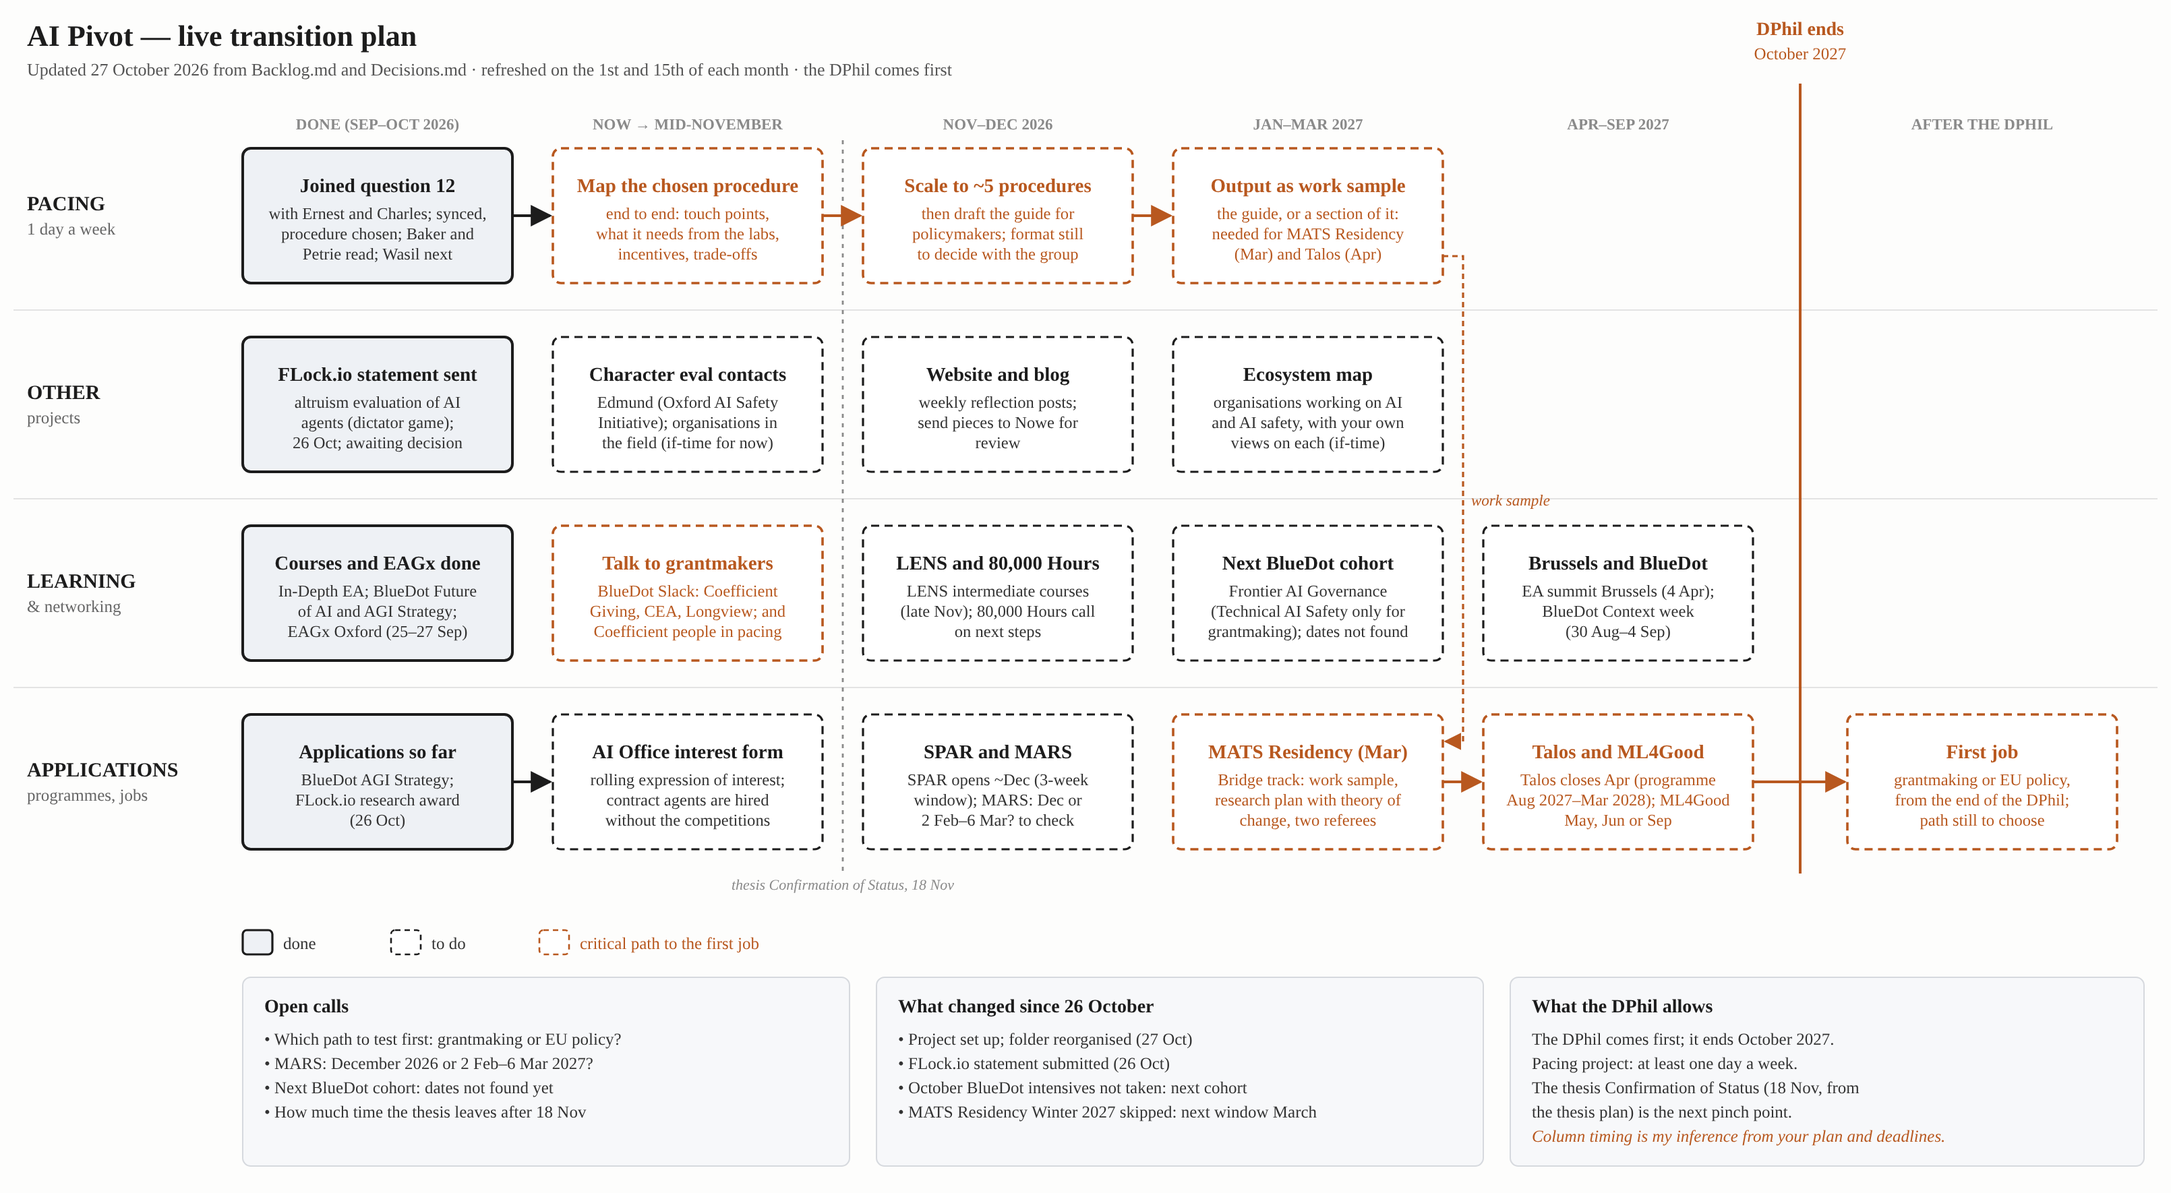
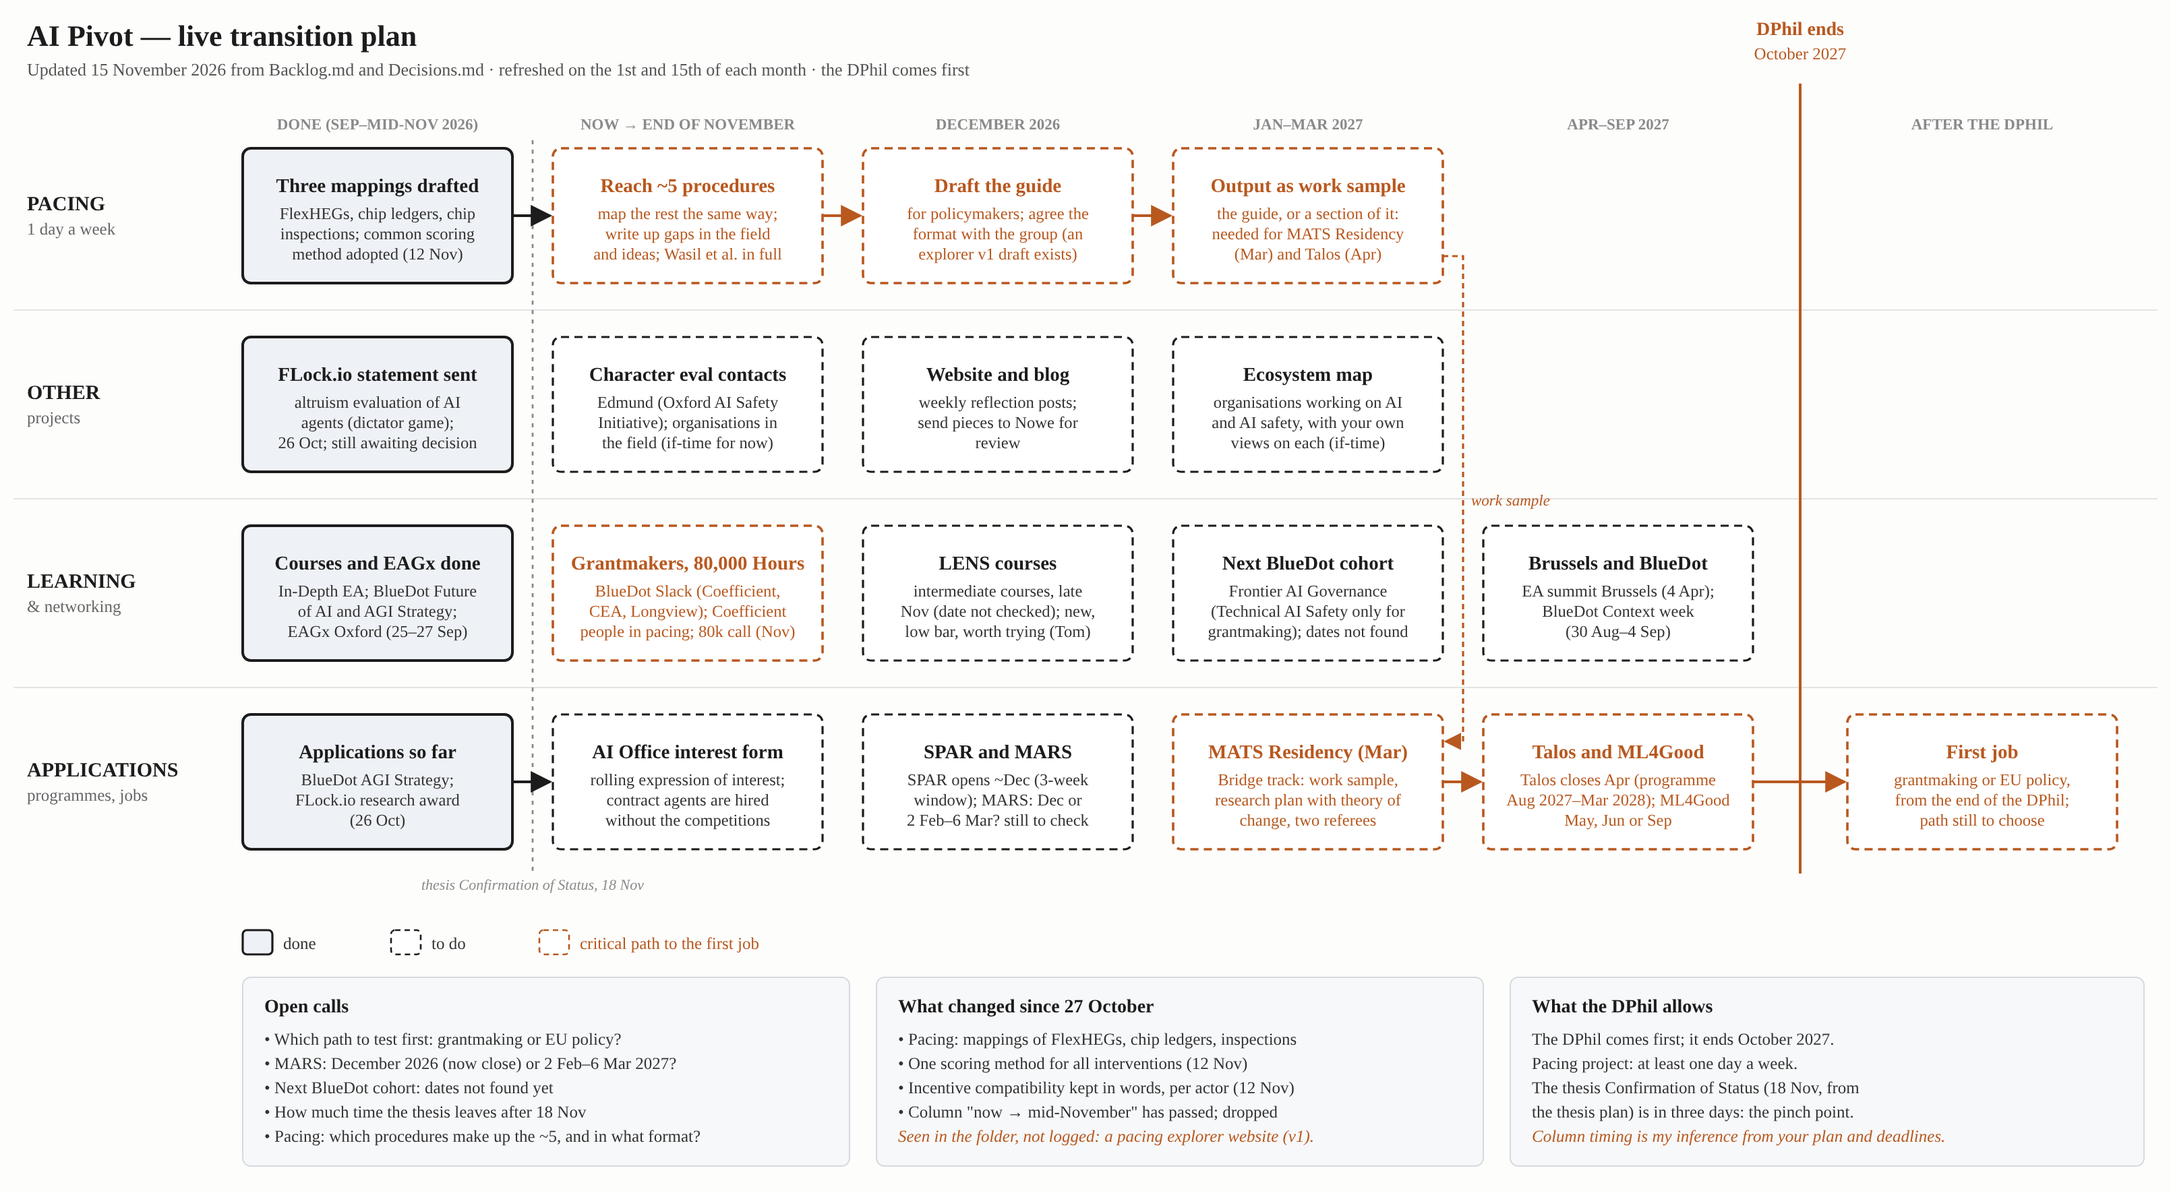
Refresh live transition plan (15 Nov 2026)
Fortnightly update: three mappings and scoring method done; next, map the remaining procedures.

Claude-Session: https://claude.ai/code/session_01QPHSetawBcCA21FfCXHxVm

diff --git a/0. Inputs & context/Live transition plan (source).html b/0. Inputs & context/Live transition plan (source).html
@@ -6,7 +6,7 @@ To update: edit the <text> nodes (and, if needed, the <rect>/<line>/<path> coord
 then render to PNG with headless Chromium at viewport width 1610 px, device scale factor 2, full page, and overwrite the PNG.
 Style shared with the DPhil plans: solid grey = done, dashed = to do, amber fill = in progress, orange = critical path;
 orange vertical line = end of the DPhil; dotted grey line = the thesis's Confirmation of Status.
-Last drawn: 27 October 2026.
+Last drawn: 15 November 2026.
 -->
 <html><head><meta charset="utf-8"><title>AI Pivot transition plan</title><style>body{margin:0;background:#fdfdfc}</style></head><body><svg xmlns="http://www.w3.org/2000/svg" width="1610" height="880" viewBox="0 0 1610 880" font-family="'Liberation Serif','Tinos','FreeSerif',Georgia,serif">
 <defs>
@@ -15,10 +15,10 @@ Last drawn: 27 October 2026.
 </defs>
 <rect width="100%" height="100%" fill="#fdfdfc"/>
 <text x="20" y="34" font-size="22" font-weight="bold" fill="#1c1c1c" text-anchor="start" font-style="normal">AI Pivot — live transition plan</text>
-<text x="20" y="56" font-size="13" font-weight="normal" fill="#555" text-anchor="start" font-style="normal">Updated 27 October 2026 from Backlog.md and Decisions.md · refreshed on the 1st and 15th of each month · the DPhil comes first</text>
-<text x="280.0" y="96" font-size="11.5" font-weight="bold" fill="#8a8a8a" text-anchor="middle" font-style="normal">DONE (SEP–OCT 2026)</text>
-<text x="510.0" y="96" font-size="11.5" font-weight="bold" fill="#8a8a8a" text-anchor="middle" font-style="normal">NOW → MID-NOVEMBER</text>
-<text x="740.0" y="96" font-size="11.5" font-weight="bold" fill="#8a8a8a" text-anchor="middle" font-style="normal">NOV–DEC 2026</text>
+<text x="20" y="56" font-size="13" font-weight="normal" fill="#555" text-anchor="start" font-style="normal">Updated 15 November 2026 from Backlog.md and Decisions.md · refreshed on the 1st and 15th of each month · the DPhil comes first</text>
+<text x="280.0" y="96" font-size="11.5" font-weight="bold" fill="#8a8a8a" text-anchor="middle" font-style="normal">DONE (SEP–MID-NOV 2026)</text>
+<text x="510.0" y="96" font-size="11.5" font-weight="bold" fill="#8a8a8a" text-anchor="middle" font-style="normal">NOW → END OF NOVEMBER</text>
+<text x="740.0" y="96" font-size="11.5" font-weight="bold" fill="#8a8a8a" text-anchor="middle" font-style="normal">DECEMBER 2026</text>
 <text x="970.0" y="96" font-size="11.5" font-weight="bold" fill="#8a8a8a" text-anchor="middle" font-style="normal">JAN–MAR 2027</text>
 <text x="1200.0" y="96" font-size="11.5" font-weight="bold" fill="#8a8a8a" text-anchor="middle" font-style="normal">APR–SEP 2027</text>
 <text x="1470.0" y="96" font-size="11.5" font-weight="bold" fill="#8a8a8a" text-anchor="middle" font-style="normal">AFTER THE DPHIL</text>
@@ -36,23 +36,23 @@ Last drawn: 27 October 2026.
 <line x1="1335" x2="1335" y1="62" y2="648" stroke="#b8581f" stroke-width="2"/>
 <text x="1335" y="26" font-size="14" font-weight="bold" fill="#b8581f" text-anchor="middle" font-style="normal">DPhil ends</text>
 <text x="1335" y="44" font-size="12.5" font-weight="normal" fill="#b8581f" text-anchor="middle" font-style="normal">October 2027</text>
-<line x1="625" x2="625" y1="104" y2="648" stroke="#8a8a8a" stroke-width="1.4" stroke-dasharray="3 4"/>
-<text x="625" y="660" font-size="11" font-weight="normal" fill="#8a8a8a" text-anchor="middle" font-style="italic">thesis Confirmation of Status, 18 Nov</text>
+<line x1="395" x2="395" y1="104" y2="648" stroke="#8a8a8a" stroke-width="1.4" stroke-dasharray="3 4"/>
+<text x="395" y="660" font-size="11" font-weight="normal" fill="#8a8a8a" text-anchor="middle" font-style="italic">thesis Confirmation of Status, 18 Nov</text>
 <rect x="180" y="110" width="200" height="100" rx="6" fill="#eef1f5" stroke="#1c1c1c" stroke-width="2"/>
-<text x="280.0" y="142.5" font-size="14.5" font-weight="bold" fill="#1c1c1c" text-anchor="middle" font-style="normal">Joined question 12</text>
-<text x="280.0" y="162.5" font-size="12.3" font-weight="normal" fill="#333" text-anchor="middle" font-style="normal">with Ernest and Charles; synced,</text>
-<text x="280.0" y="177.5" font-size="12.3" font-weight="normal" fill="#333" text-anchor="middle" font-style="normal">procedure chosen; Baker and</text>
-<text x="280.0" y="192.5" font-size="12.3" font-weight="normal" fill="#333" text-anchor="middle" font-style="normal">Petrie read; Wasil next</text>
+<text x="280.0" y="142.5" font-size="14.5" font-weight="bold" fill="#1c1c1c" text-anchor="middle" font-style="normal">Three mappings drafted</text>
+<text x="280.0" y="162.5" font-size="12.3" font-weight="normal" fill="#333" text-anchor="middle" font-style="normal">FlexHEGs, chip ledgers, chip</text>
+<text x="280.0" y="177.5" font-size="12.3" font-weight="normal" fill="#333" text-anchor="middle" font-style="normal">inspections; common scoring</text>
+<text x="280.0" y="192.5" font-size="12.3" font-weight="normal" fill="#333" text-anchor="middle" font-style="normal">method adopted (12 Nov)</text>
 <rect x="410" y="110" width="200" height="100" rx="6" fill="#ffffff" stroke="#b8581f" stroke-width="1.8" stroke-dasharray="6 4"/>
-<text x="510.0" y="142.5" font-size="14.5" font-weight="bold" fill="#b8581f" text-anchor="middle" font-style="normal">Map the chosen procedure</text>
-<text x="510.0" y="162.5" font-size="12.3" font-weight="normal" fill="#b8581f" text-anchor="middle" font-style="normal">end to end: touch points,</text>
-<text x="510.0" y="177.5" font-size="12.3" font-weight="normal" fill="#b8581f" text-anchor="middle" font-style="normal">what it needs from the labs,</text>
-<text x="510.0" y="192.5" font-size="12.3" font-weight="normal" fill="#b8581f" text-anchor="middle" font-style="normal">incentives, trade-offs</text>
+<text x="510.0" y="142.5" font-size="14.5" font-weight="bold" fill="#b8581f" text-anchor="middle" font-style="normal">Reach ~5 procedures</text>
+<text x="510.0" y="162.5" font-size="12.3" font-weight="normal" fill="#b8581f" text-anchor="middle" font-style="normal">map the rest the same way;</text>
+<text x="510.0" y="177.5" font-size="12.3" font-weight="normal" fill="#b8581f" text-anchor="middle" font-style="normal">write up gaps in the field</text>
+<text x="510.0" y="192.5" font-size="12.3" font-weight="normal" fill="#b8581f" text-anchor="middle" font-style="normal">and ideas; Wasil et al. in full</text>
 <rect x="640" y="110" width="200" height="100" rx="6" fill="#ffffff" stroke="#b8581f" stroke-width="1.8" stroke-dasharray="6 4"/>
-<text x="740.0" y="142.5" font-size="14.5" font-weight="bold" fill="#b8581f" text-anchor="middle" font-style="normal">Scale to ~5 procedures</text>
-<text x="740.0" y="162.5" font-size="12.3" font-weight="normal" fill="#b8581f" text-anchor="middle" font-style="normal">then draft the guide for</text>
-<text x="740.0" y="177.5" font-size="12.3" font-weight="normal" fill="#b8581f" text-anchor="middle" font-style="normal">policymakers; format still</text>
-<text x="740.0" y="192.5" font-size="12.3" font-weight="normal" fill="#b8581f" text-anchor="middle" font-style="normal">to decide with the group</text>
+<text x="740.0" y="142.5" font-size="14.5" font-weight="bold" fill="#b8581f" text-anchor="middle" font-style="normal">Draft the guide</text>
+<text x="740.0" y="162.5" font-size="12.3" font-weight="normal" fill="#b8581f" text-anchor="middle" font-style="normal">for policymakers; agree the</text>
+<text x="740.0" y="177.5" font-size="12.3" font-weight="normal" fill="#b8581f" text-anchor="middle" font-style="normal">format with the group (an</text>
+<text x="740.0" y="192.5" font-size="12.3" font-weight="normal" fill="#b8581f" text-anchor="middle" font-style="normal">explorer v1 draft exists)</text>
 <rect x="870" y="110" width="200" height="100" rx="6" fill="#ffffff" stroke="#b8581f" stroke-width="1.8" stroke-dasharray="6 4"/>
 <text x="970.0" y="142.5" font-size="14.5" font-weight="bold" fill="#b8581f" text-anchor="middle" font-style="normal">Output as work sample</text>
 <text x="970.0" y="162.5" font-size="12.3" font-weight="normal" fill="#b8581f" text-anchor="middle" font-style="normal">the guide, or a section of it:</text>
@@ -67,7 +67,7 @@ Last drawn: 27 October 2026.
 <text x="280.0" y="282.5" font-size="14.5" font-weight="bold" fill="#1c1c1c" text-anchor="middle" font-style="normal">FLock.io statement sent</text>
 <text x="280.0" y="302.5" font-size="12.3" font-weight="normal" fill="#333" text-anchor="middle" font-style="normal">altruism evaluation of AI</text>
 <text x="280.0" y="317.5" font-size="12.3" font-weight="normal" fill="#333" text-anchor="middle" font-style="normal">agents (dictator game);</text>
-<text x="280.0" y="332.5" font-size="12.3" font-weight="normal" fill="#333" text-anchor="middle" font-style="normal">26 Oct; awaiting decision</text>
+<text x="280.0" y="332.5" font-size="12.3" font-weight="normal" fill="#333" text-anchor="middle" font-style="normal">26 Oct; still awaiting decision</text>
 <rect x="410" y="250" width="200" height="100" rx="6" fill="#ffffff" stroke="#1c1c1c" stroke-width="1.6" stroke-dasharray="6 4"/>
 <text x="510.0" y="282.5" font-size="14.5" font-weight="bold" fill="#1c1c1c" text-anchor="middle" font-style="normal">Character eval contacts</text>
 <text x="510.0" y="302.5" font-size="12.3" font-weight="normal" fill="#333" text-anchor="middle" font-style="normal">Edmund (Oxford AI Safety</text>
@@ -89,15 +89,15 @@ Last drawn: 27 October 2026.
 <text x="280.0" y="457.5" font-size="12.3" font-weight="normal" fill="#333" text-anchor="middle" font-style="normal">of AI and AGI Strategy;</text>
 <text x="280.0" y="472.5" font-size="12.3" font-weight="normal" fill="#333" text-anchor="middle" font-style="normal">EAGx Oxford (25–27 Sep)</text>
 <rect x="410" y="390" width="200" height="100" rx="6" fill="#ffffff" stroke="#b8581f" stroke-width="1.8" stroke-dasharray="6 4"/>
-<text x="510.0" y="422.5" font-size="14.5" font-weight="bold" fill="#b8581f" text-anchor="middle" font-style="normal">Talk to grantmakers</text>
-<text x="510.0" y="442.5" font-size="12.3" font-weight="normal" fill="#b8581f" text-anchor="middle" font-style="normal">BlueDot Slack: Coefficient</text>
-<text x="510.0" y="457.5" font-size="12.3" font-weight="normal" fill="#b8581f" text-anchor="middle" font-style="normal">Giving, CEA, Longview; and</text>
-<text x="510.0" y="472.5" font-size="12.3" font-weight="normal" fill="#b8581f" text-anchor="middle" font-style="normal">Coefficient people in pacing</text>
+<text x="510.0" y="422.5" font-size="14.5" font-weight="bold" fill="#b8581f" text-anchor="middle" font-style="normal">Grantmakers, 80,000 Hours</text>
+<text x="510.0" y="442.5" font-size="12.3" font-weight="normal" fill="#b8581f" text-anchor="middle" font-style="normal">BlueDot Slack (Coefficient,</text>
+<text x="510.0" y="457.5" font-size="12.3" font-weight="normal" fill="#b8581f" text-anchor="middle" font-style="normal">CEA, Longview); Coefficient</text>
+<text x="510.0" y="472.5" font-size="12.3" font-weight="normal" fill="#b8581f" text-anchor="middle" font-style="normal">people in pacing; 80k call (Nov)</text>
 <rect x="640" y="390" width="200" height="100" rx="6" fill="#ffffff" stroke="#1c1c1c" stroke-width="1.6" stroke-dasharray="6 4"/>
-<text x="740.0" y="422.5" font-size="14.5" font-weight="bold" fill="#1c1c1c" text-anchor="middle" font-style="normal">LENS and 80,000 Hours</text>
-<text x="740.0" y="442.5" font-size="12.3" font-weight="normal" fill="#333" text-anchor="middle" font-style="normal">LENS intermediate courses</text>
-<text x="740.0" y="457.5" font-size="12.3" font-weight="normal" fill="#333" text-anchor="middle" font-style="normal">(late Nov); 80,000 Hours call</text>
-<text x="740.0" y="472.5" font-size="12.3" font-weight="normal" fill="#333" text-anchor="middle" font-style="normal">on next steps</text>
+<text x="740.0" y="422.5" font-size="14.5" font-weight="bold" fill="#1c1c1c" text-anchor="middle" font-style="normal">LENS courses</text>
+<text x="740.0" y="442.5" font-size="12.3" font-weight="normal" fill="#333" text-anchor="middle" font-style="normal">intermediate courses, late</text>
+<text x="740.0" y="457.5" font-size="12.3" font-weight="normal" fill="#333" text-anchor="middle" font-style="normal">Nov (date not checked); new,</text>
+<text x="740.0" y="472.5" font-size="12.3" font-weight="normal" fill="#333" text-anchor="middle" font-style="normal">low bar, worth trying (Tom)</text>
 <rect x="870" y="390" width="200" height="100" rx="6" fill="#ffffff" stroke="#1c1c1c" stroke-width="1.6" stroke-dasharray="6 4"/>
 <text x="970.0" y="422.5" font-size="14.5" font-weight="bold" fill="#1c1c1c" text-anchor="middle" font-style="normal">Next BlueDot cohort</text>
 <text x="970.0" y="442.5" font-size="12.3" font-weight="normal" fill="#333" text-anchor="middle" font-style="normal">Frontier AI Governance</text>
@@ -122,7 +122,7 @@ Last drawn: 27 October 2026.
 <text x="740.0" y="562.5" font-size="14.5" font-weight="bold" fill="#1c1c1c" text-anchor="middle" font-style="normal">SPAR and MARS</text>
 <text x="740.0" y="582.5" font-size="12.3" font-weight="normal" fill="#333" text-anchor="middle" font-style="normal">SPAR opens ~Dec (3-week</text>
 <text x="740.0" y="597.5" font-size="12.3" font-weight="normal" fill="#333" text-anchor="middle" font-style="normal">window); MARS: Dec or</text>
-<text x="740.0" y="612.5" font-size="12.3" font-weight="normal" fill="#333" text-anchor="middle" font-style="normal">2 Feb–6 Mar? to check</text>
+<text x="740.0" y="612.5" font-size="12.3" font-weight="normal" fill="#333" text-anchor="middle" font-style="normal">2 Feb–6 Mar? still to check</text>
 <rect x="870" y="530" width="200" height="100" rx="6" fill="#ffffff" stroke="#b8581f" stroke-width="1.8" stroke-dasharray="6 4"/>
 <text x="970.0" y="562.5" font-size="14.5" font-weight="bold" fill="#b8581f" text-anchor="middle" font-style="normal">MATS Residency (Mar)</text>
 <text x="970.0" y="582.5" font-size="12.3" font-weight="normal" fill="#b8581f" text-anchor="middle" font-style="normal">Bridge track: work sample,</text>
@@ -150,20 +150,22 @@ Last drawn: 27 October 2026.
 <rect x="180" y="725" width="450" height="140" rx="6" fill="#f7f8fa" stroke="#d6d9de"/>
 <text x="196" y="751" font-size="14" font-weight="bold" fill="#1c1c1c" text-anchor="start" font-style="normal">Open calls</text>
 <text x="196" y="775" font-size="12.5" font-weight="normal" fill="#333" text-anchor="start" font-style="normal">• Which path to test first: grantmaking or EU policy?</text>
-<text x="196" y="793" font-size="12.5" font-weight="normal" fill="#333" text-anchor="start" font-style="normal">• MARS: December 2026 or 2 Feb–6 Mar 2027?</text>
+<text x="196" y="793" font-size="12.5" font-weight="normal" fill="#333" text-anchor="start" font-style="normal">• MARS: December 2026 (now close) or 2 Feb–6 Mar 2027?</text>
 <text x="196" y="811" font-size="12.5" font-weight="normal" fill="#333" text-anchor="start" font-style="normal">• Next BlueDot cohort: dates not found yet</text>
 <text x="196" y="829" font-size="12.5" font-weight="normal" fill="#333" text-anchor="start" font-style="normal">• How much time the thesis leaves after 18 Nov</text>
+<text x="196" y="847" font-size="12.5" font-weight="normal" fill="#333" text-anchor="start" font-style="normal">• Pacing: which procedures make up the ~5, and in what format?</text>
 <rect x="650" y="725" width="450" height="140" rx="6" fill="#f7f8fa" stroke="#d6d9de"/>
-<text x="666" y="751" font-size="14" font-weight="bold" fill="#1c1c1c" text-anchor="start" font-style="normal">What changed since 26 October</text>
-<text x="666" y="775" font-size="12.5" font-weight="normal" fill="#333" text-anchor="start" font-style="normal">• Project set up; folder reorganised (27 Oct)</text>
-<text x="666" y="793" font-size="12.5" font-weight="normal" fill="#333" text-anchor="start" font-style="normal">• FLock.io statement submitted (26 Oct)</text>
-<text x="666" y="811" font-size="12.5" font-weight="normal" fill="#333" text-anchor="start" font-style="normal">• October BlueDot intensives not taken: next cohort</text>
-<text x="666" y="829" font-size="12.5" font-weight="normal" fill="#333" text-anchor="start" font-style="normal">• MATS Residency Winter 2027 skipped: next window March</text>
+<text x="666" y="751" font-size="14" font-weight="bold" fill="#1c1c1c" text-anchor="start" font-style="normal">What changed since 27 October</text>
+<text x="666" y="775" font-size="12.5" font-weight="normal" fill="#333" text-anchor="start" font-style="normal">• Pacing: mappings of FlexHEGs, chip ledgers, inspections</text>
+<text x="666" y="793" font-size="12.5" font-weight="normal" fill="#333" text-anchor="start" font-style="normal">• One scoring method for all interventions (12 Nov)</text>
+<text x="666" y="811" font-size="12.5" font-weight="normal" fill="#333" text-anchor="start" font-style="normal">• Incentive compatibility kept in words, per actor (12 Nov)</text>
+<text x="666" y="829" font-size="12.5" font-weight="normal" fill="#333" text-anchor="start" font-style="normal">• Column "now → mid-November" has passed; dropped</text>
+<text x="666" y="847" font-size="12.5" font-weight="normal" fill="#b8581f" text-anchor="start" font-style="italic">Seen in the folder, not logged: a pacing explorer website (v1).</text>
 <rect x="1120" y="725" width="470" height="140" rx="6" fill="#f7f8fa" stroke="#d6d9de"/>
 <text x="1136" y="751" font-size="14" font-weight="bold" fill="#1c1c1c" text-anchor="start" font-style="normal">What the DPhil allows</text>
 <text x="1136" y="775" font-size="12.5" font-weight="normal" fill="#333" text-anchor="start" font-style="normal">The DPhil comes first; it ends October 2027.</text>
 <text x="1136" y="793" font-size="12.5" font-weight="normal" fill="#333" text-anchor="start" font-style="normal">Pacing project: at least one day a week.</text>
 <text x="1136" y="811" font-size="12.5" font-weight="normal" fill="#333" text-anchor="start" font-style="normal">The thesis Confirmation of Status (18 Nov, from</text>
-<text x="1136" y="829" font-size="12.5" font-weight="normal" fill="#333" text-anchor="start" font-style="normal">the thesis plan) is the next pinch point.</text>
+<text x="1136" y="829" font-size="12.5" font-weight="normal" fill="#333" text-anchor="start" font-style="normal">the thesis plan) is in three days: the pinch point.</text>
 <text x="1136" y="847" font-size="12.5" font-weight="normal" fill="#b8581f" text-anchor="start" font-style="italic">Column timing is my inference from your plan and deadlines.</text>
 </svg></body></html>
